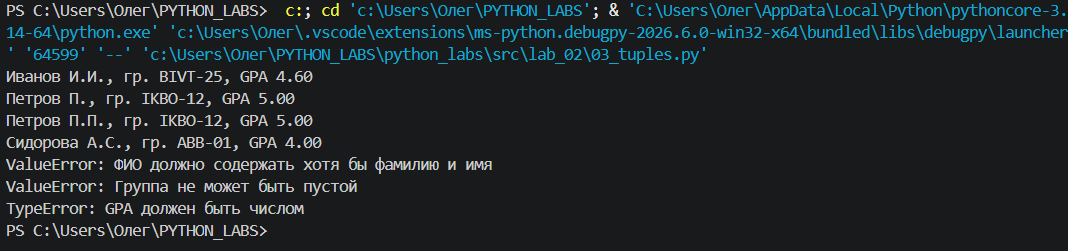
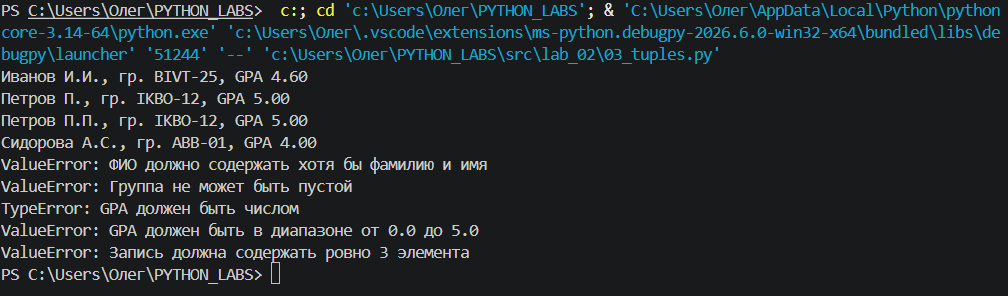
дополнил вывод ошибок в 3 задании 2 лабы

Changed region(s): [[0.0, 0.0, 1.0, 0.9482]]

diff --git a/src/lab_02/03_tuples.py b/src/lab_02/03_tuples.py
@@ -55,3 +55,11 @@ try:
     print(format_record(("Иванов Иван", "BIVT-25", "пять")))
 except TypeError as e:
     print(f"TypeError: {e}")
+try:
+    print(format_record(("Иванов Иван", "BIVT-25", 3124212.0)))
+except ValueError as e:
+    print(f"ValueError: {e}")
+try:
+    print(format_record(( "BIVT-25", "3.0")))
+except ValueError as e:
+    print(f"ValueError: {e}")

diff --git a/README.md b/README.md
@@ -296,5 +296,13 @@ try:
     print(format_record(("Иванов Иван", "BIVT-25", "пять")))
 except TypeError as e:
     print(f"TypeError: {e}")
+ try:
+    print(format_record(("Иванов Иван", "BIVT-25", 3124212.0)))
+except ValueError as e:
+    print(f"ValueError: {e}")
+try:
+    print(format_record(( "BIVT-25", "3.0")))
+except ValueError as e:
+    print(f"ValueError: {e}")
  ```
  ![Результат 3 задания](images/lab_02/03_tuples.png)   
